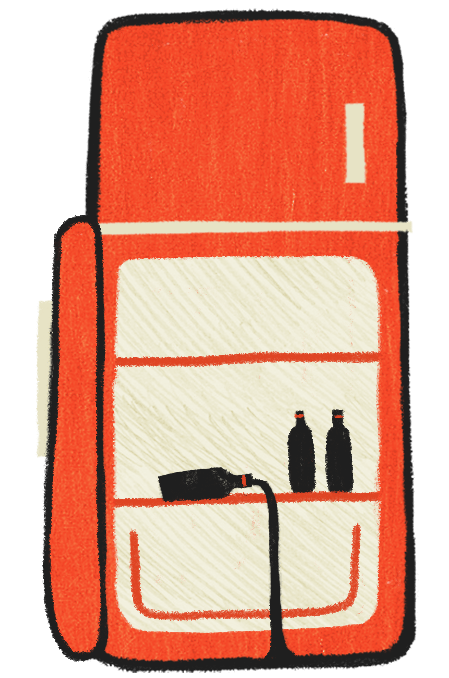
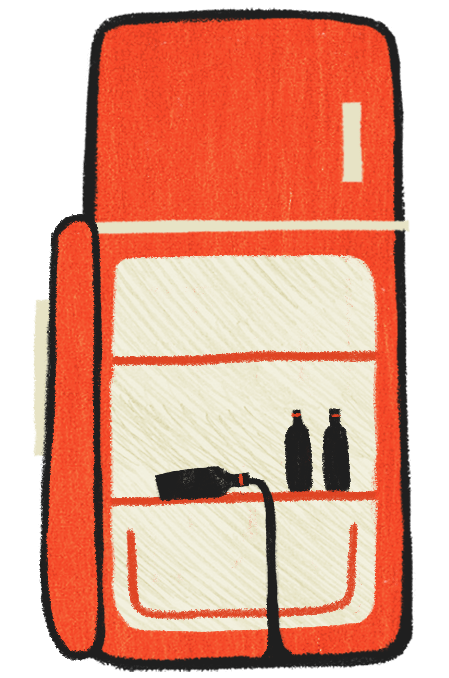
udah animasi

diff --git a/pages/ruangan/anger.vue b/pages/ruangan/anger.vue
@@ -44,7 +44,7 @@
             <img src="/anger/lt.png" alt="floor">
           </div>
           <div class="cont kulkas">
-            <img src="/anger/kulklos.png" alt="kulkas1">
+            <img src="/anger/kulklos.png" alt="kulkas" @mouseenter="handleObjChange($event)" @mouseout="handleObjChangeEnd($event)">
           </div>
           <div class="cont lemari">
             <img src="/anger/lmari.png" alt="lemari">
@@ -121,7 +121,7 @@
             <img src="/anger/meja.png" alt="meja">
           </div>
           <div class="cont meong">
-            <img src="/anger/meong.png" alt="meong">
+            <img src="/anger/meong2.png" alt="meong" @mouseenter="handleObjChange($event)" @mouseout="handleObjChangeEnd($event)">
           </div>
           <div class="cont rak">
             <img src="/anger/rak.png" alt="rak">
@@ -130,7 +130,7 @@
             <img src="/anger/trolley.png" alt="trolley">
           </div>
           <div class="cont tv">
-            <img src="/anger/tv1.png" alt="tv">
+            <img src="/anger/tgif.gif" alt="tv">
           </div>
           <div class="cont kran">
             <img src="/anger/kran.gif" alt="kran">
@@ -298,9 +298,33 @@
         } else if (this.slide === 1 && e.key === "ArrowRight"){
           this.switchSlide(1)
         }
-      }
-    },
-  }
+      },
+
+        
+      handleObjChange(e){
+        console.log(e)
+        if (e.target.getAttribute('src') === "/anger/kulklos.png"){
+          e.target.setAttribute('src', "/anger/kulopen.png")
+        } else if (e.target.getAttribute('src') === "/anger/meong2.png"){
+          e.target.setAttribute('src', "/anger/meong.png")
+        } else if (e.target.getAttribute('src') === "/anger/tgif.gif"){
+          e.target.setAttribute('src', "/anger/tv2.png")
+        }
+      },
+      handleObjChangeEnd(e){
+        console.log(e)
+        if (e.target.getAttribute('src') === "/anger/kulopen.png"){
+          e.target.setAttribute('src', "/anger/kulklos.png")
+        } else if (e.target.getAttribute('src') === "/anger/meong.png"){
+          e.target.setAttribute('src', "/anger/meong2.png")
+        } else if (e.target.getAttribute('src') === "/anger/tv2.png"){
+          e.target.setAttribute('src', "/anger/tgif.gif")
+        }
+      },
+
+      },
+    }
+  
 </script>
 
 <style lang="scss" scoped>
@@ -432,9 +456,9 @@
   top: 74.5%;
 }
 .kulkas{
-  width: 20%;
-  top: 16%;
-  left: 6%;
+  width: 23.4%;
+  top: 16.8%;
+  left: 3.5%;
 }
 .lemari{
   width: 22%;
@@ -528,9 +552,9 @@
   left: 6.5%;
 }
 .tv{
-  width: 15%;
-  top: 31.5%;
-  left: 75.5%;
+  width: 12%;
+  top: 30.5%;
+  left: 77.5%;
 }
 .kran{
   width: 38.5%;
